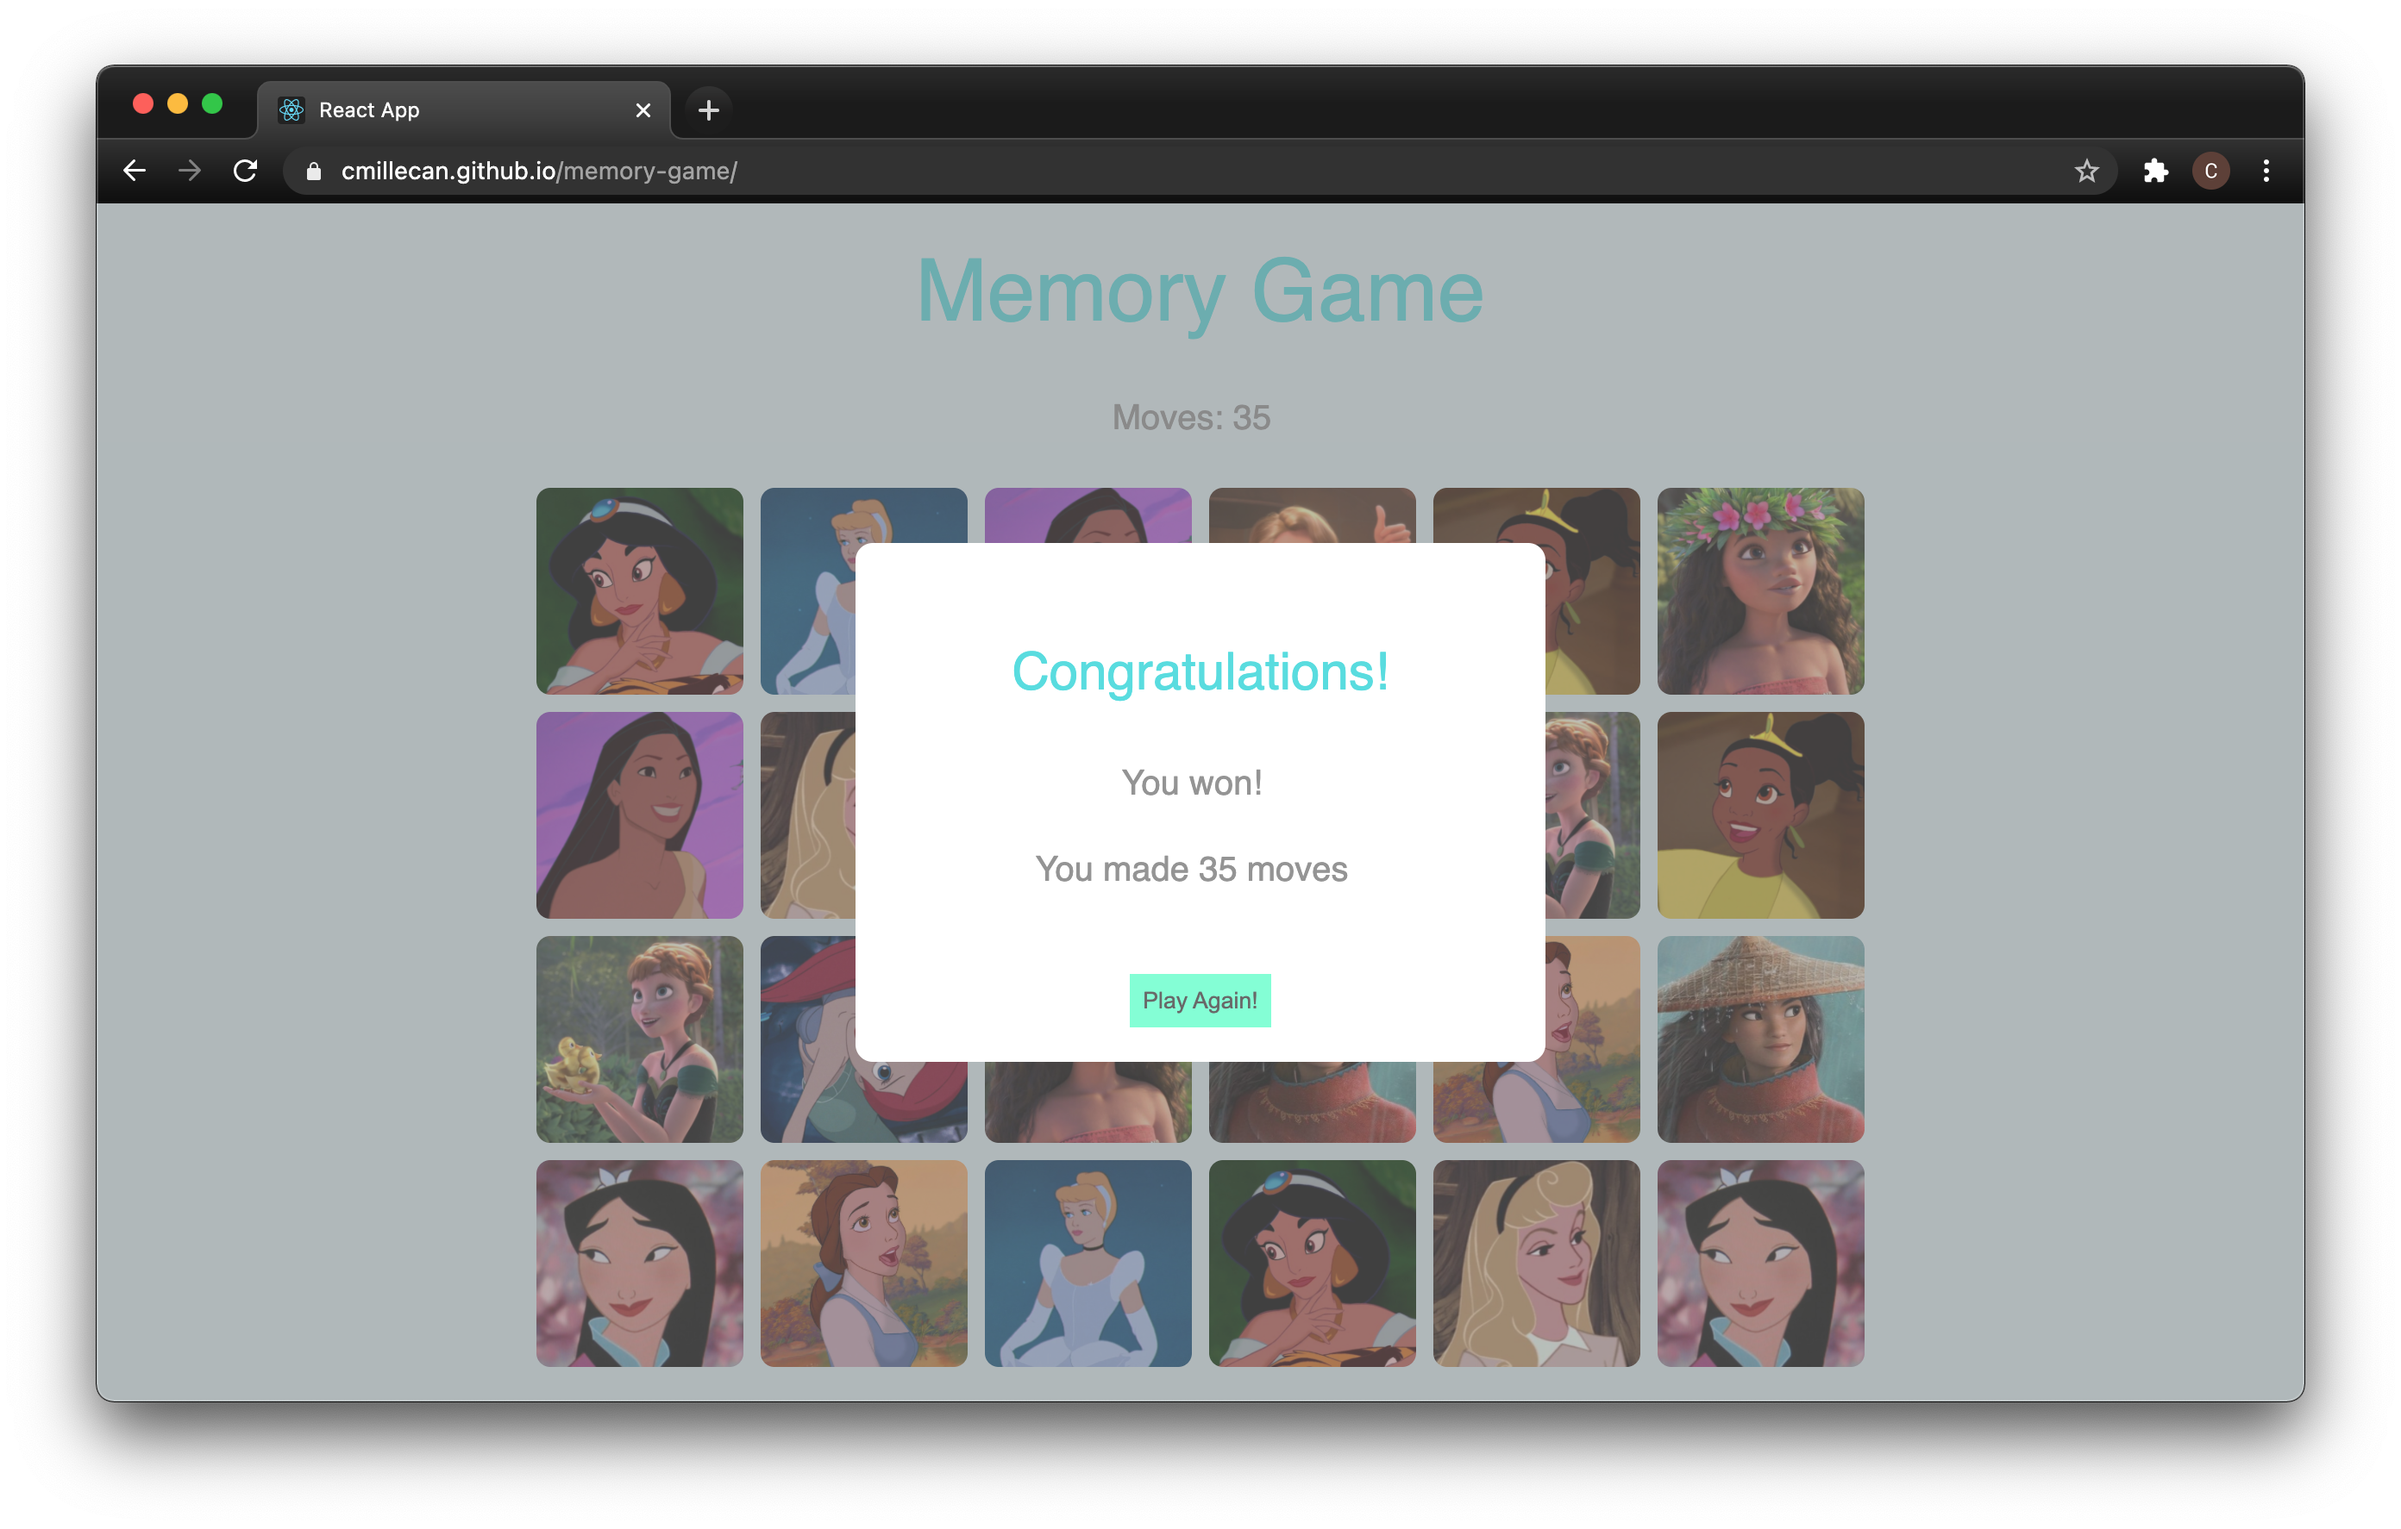
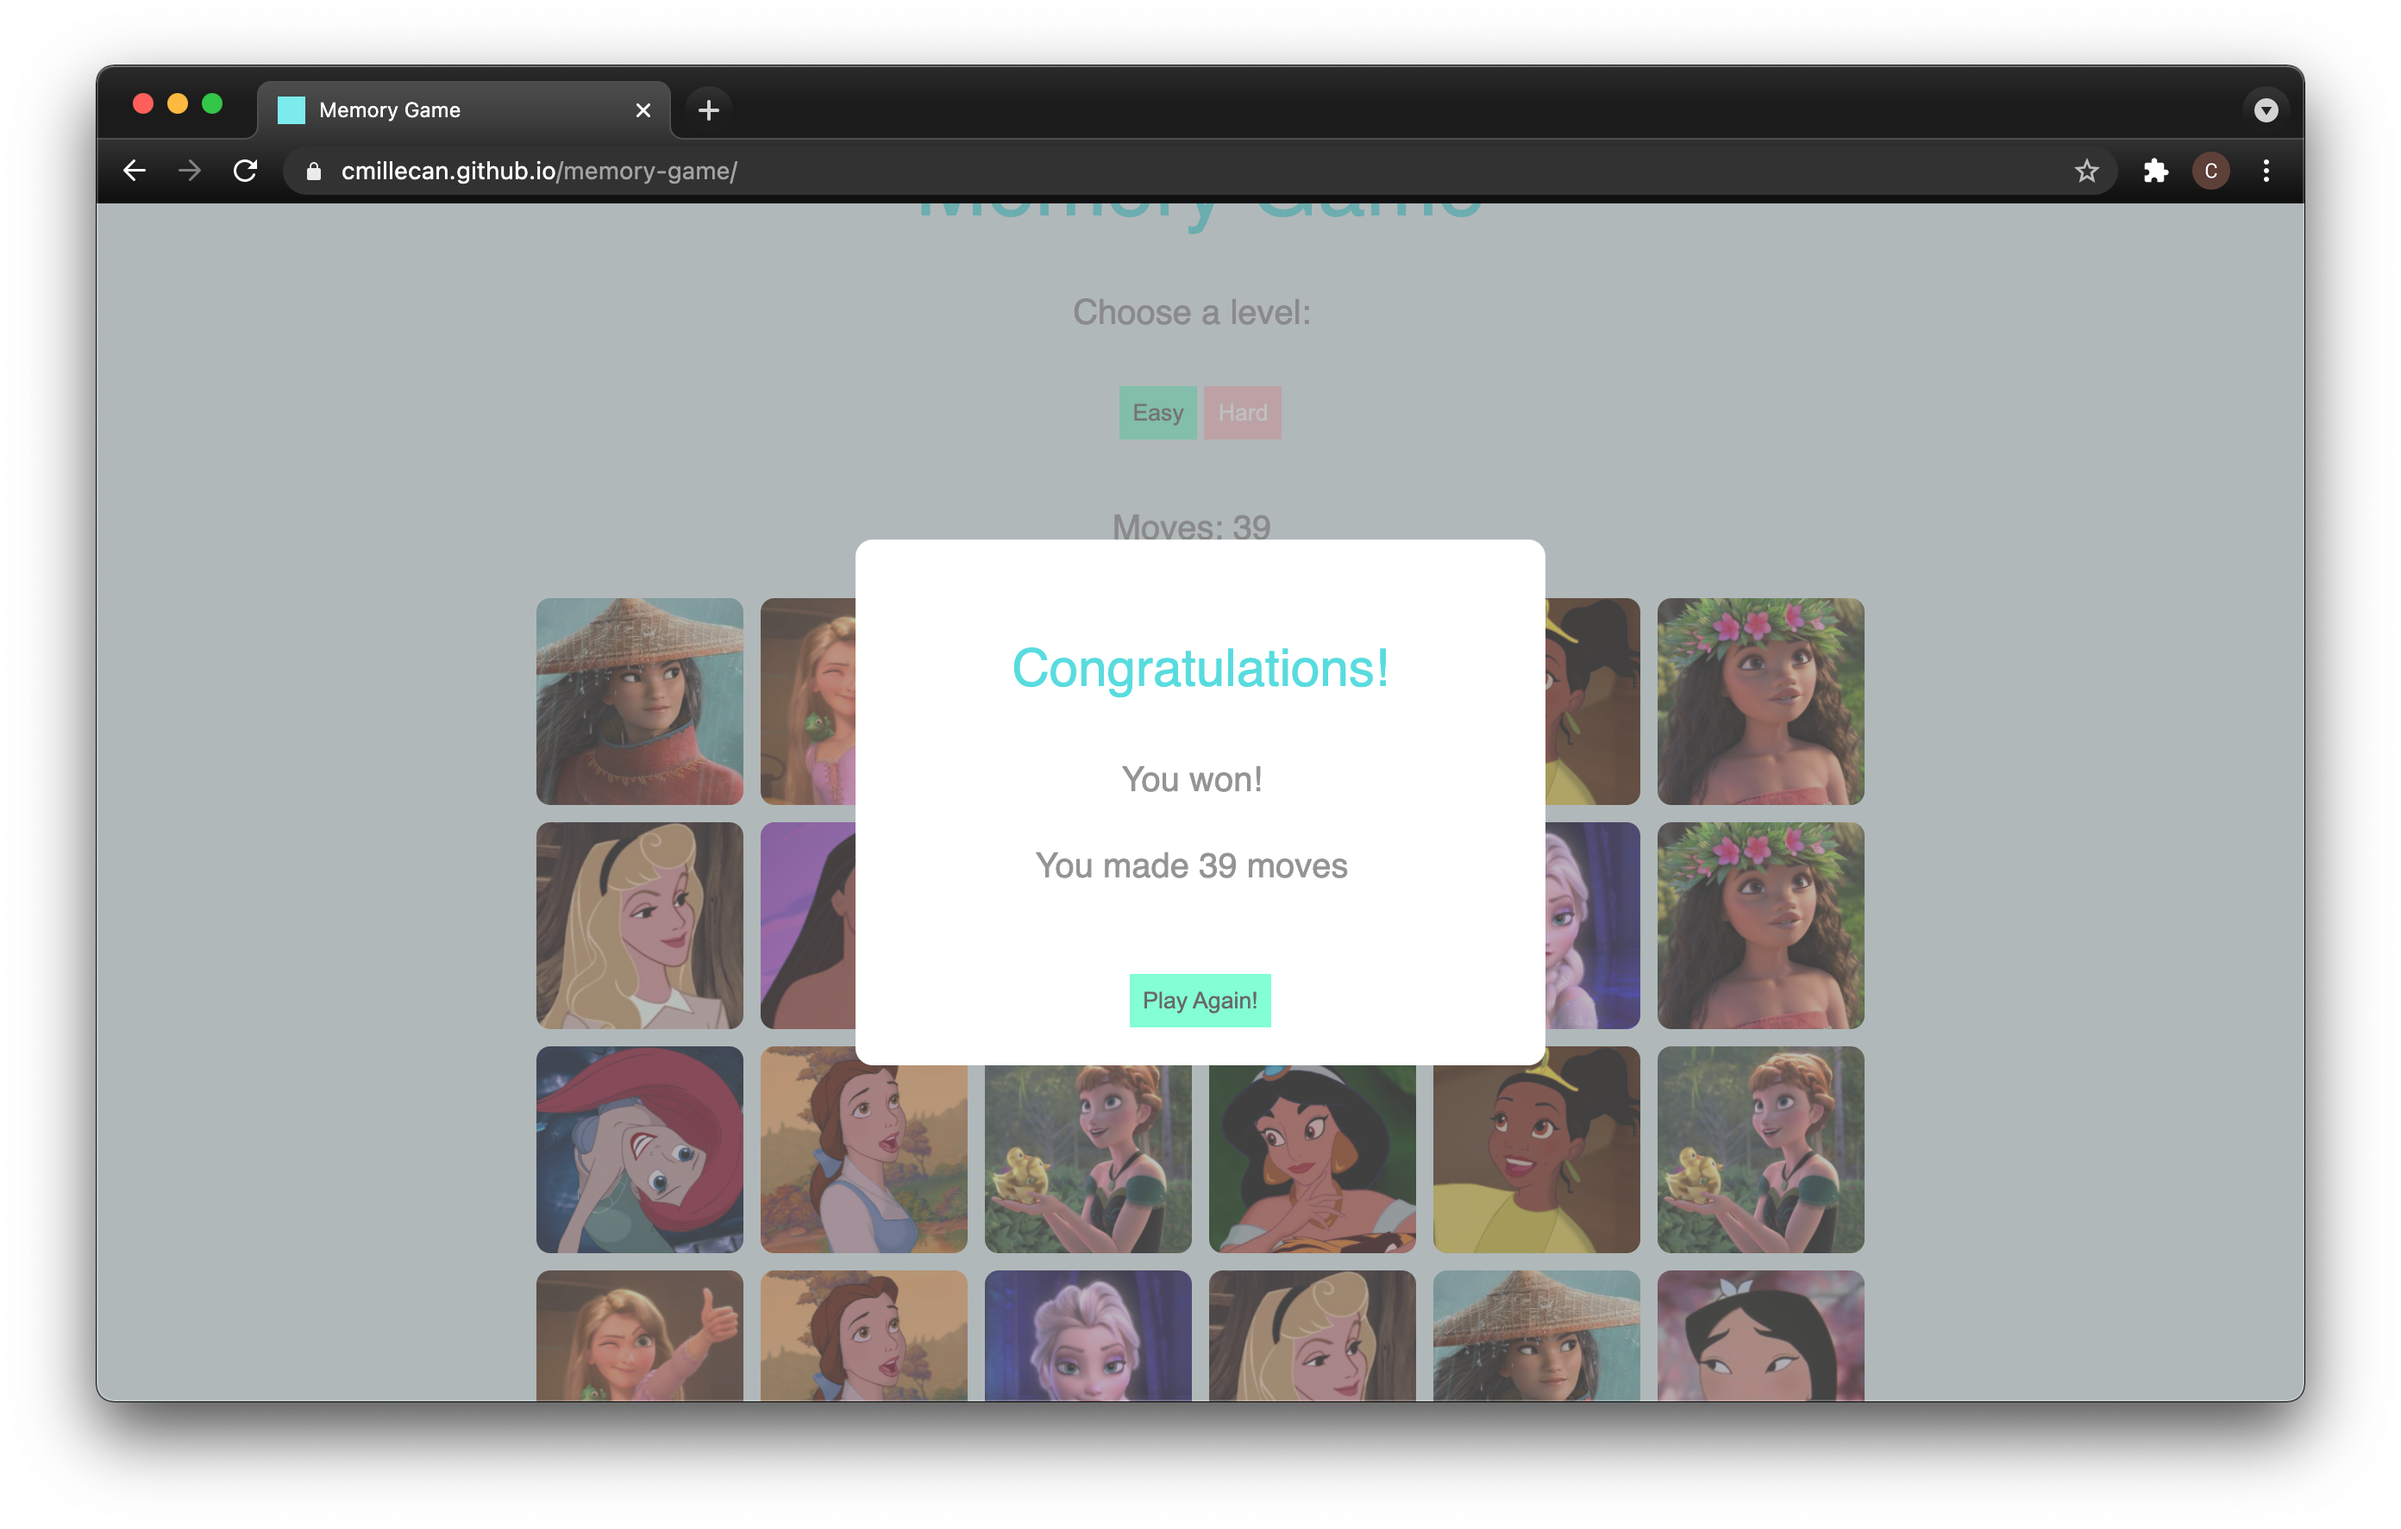
update readme

diff --git a/README.md b/README.md
@@ -3,6 +3,8 @@
 Pick a card and find its match. A memory game built with `React` and `CSS`.\
 [View demo](https://cmillecan.github.io/memory-game/) 
 
-![](src/images/memory-game.png "memory game")
-![](src/images/memory-game-modal.png "memory game modal")
+![Memory game](src/images/memory-game.png "memory game")
+![Easy level](src/images/memory-game-easy.png "memory game easy")
+![Hard level](src/images/memory-game-hard.png "memory game hard")
+![Congratulations modal](src/images/memory-game-modal.png "memory game modal")
  
